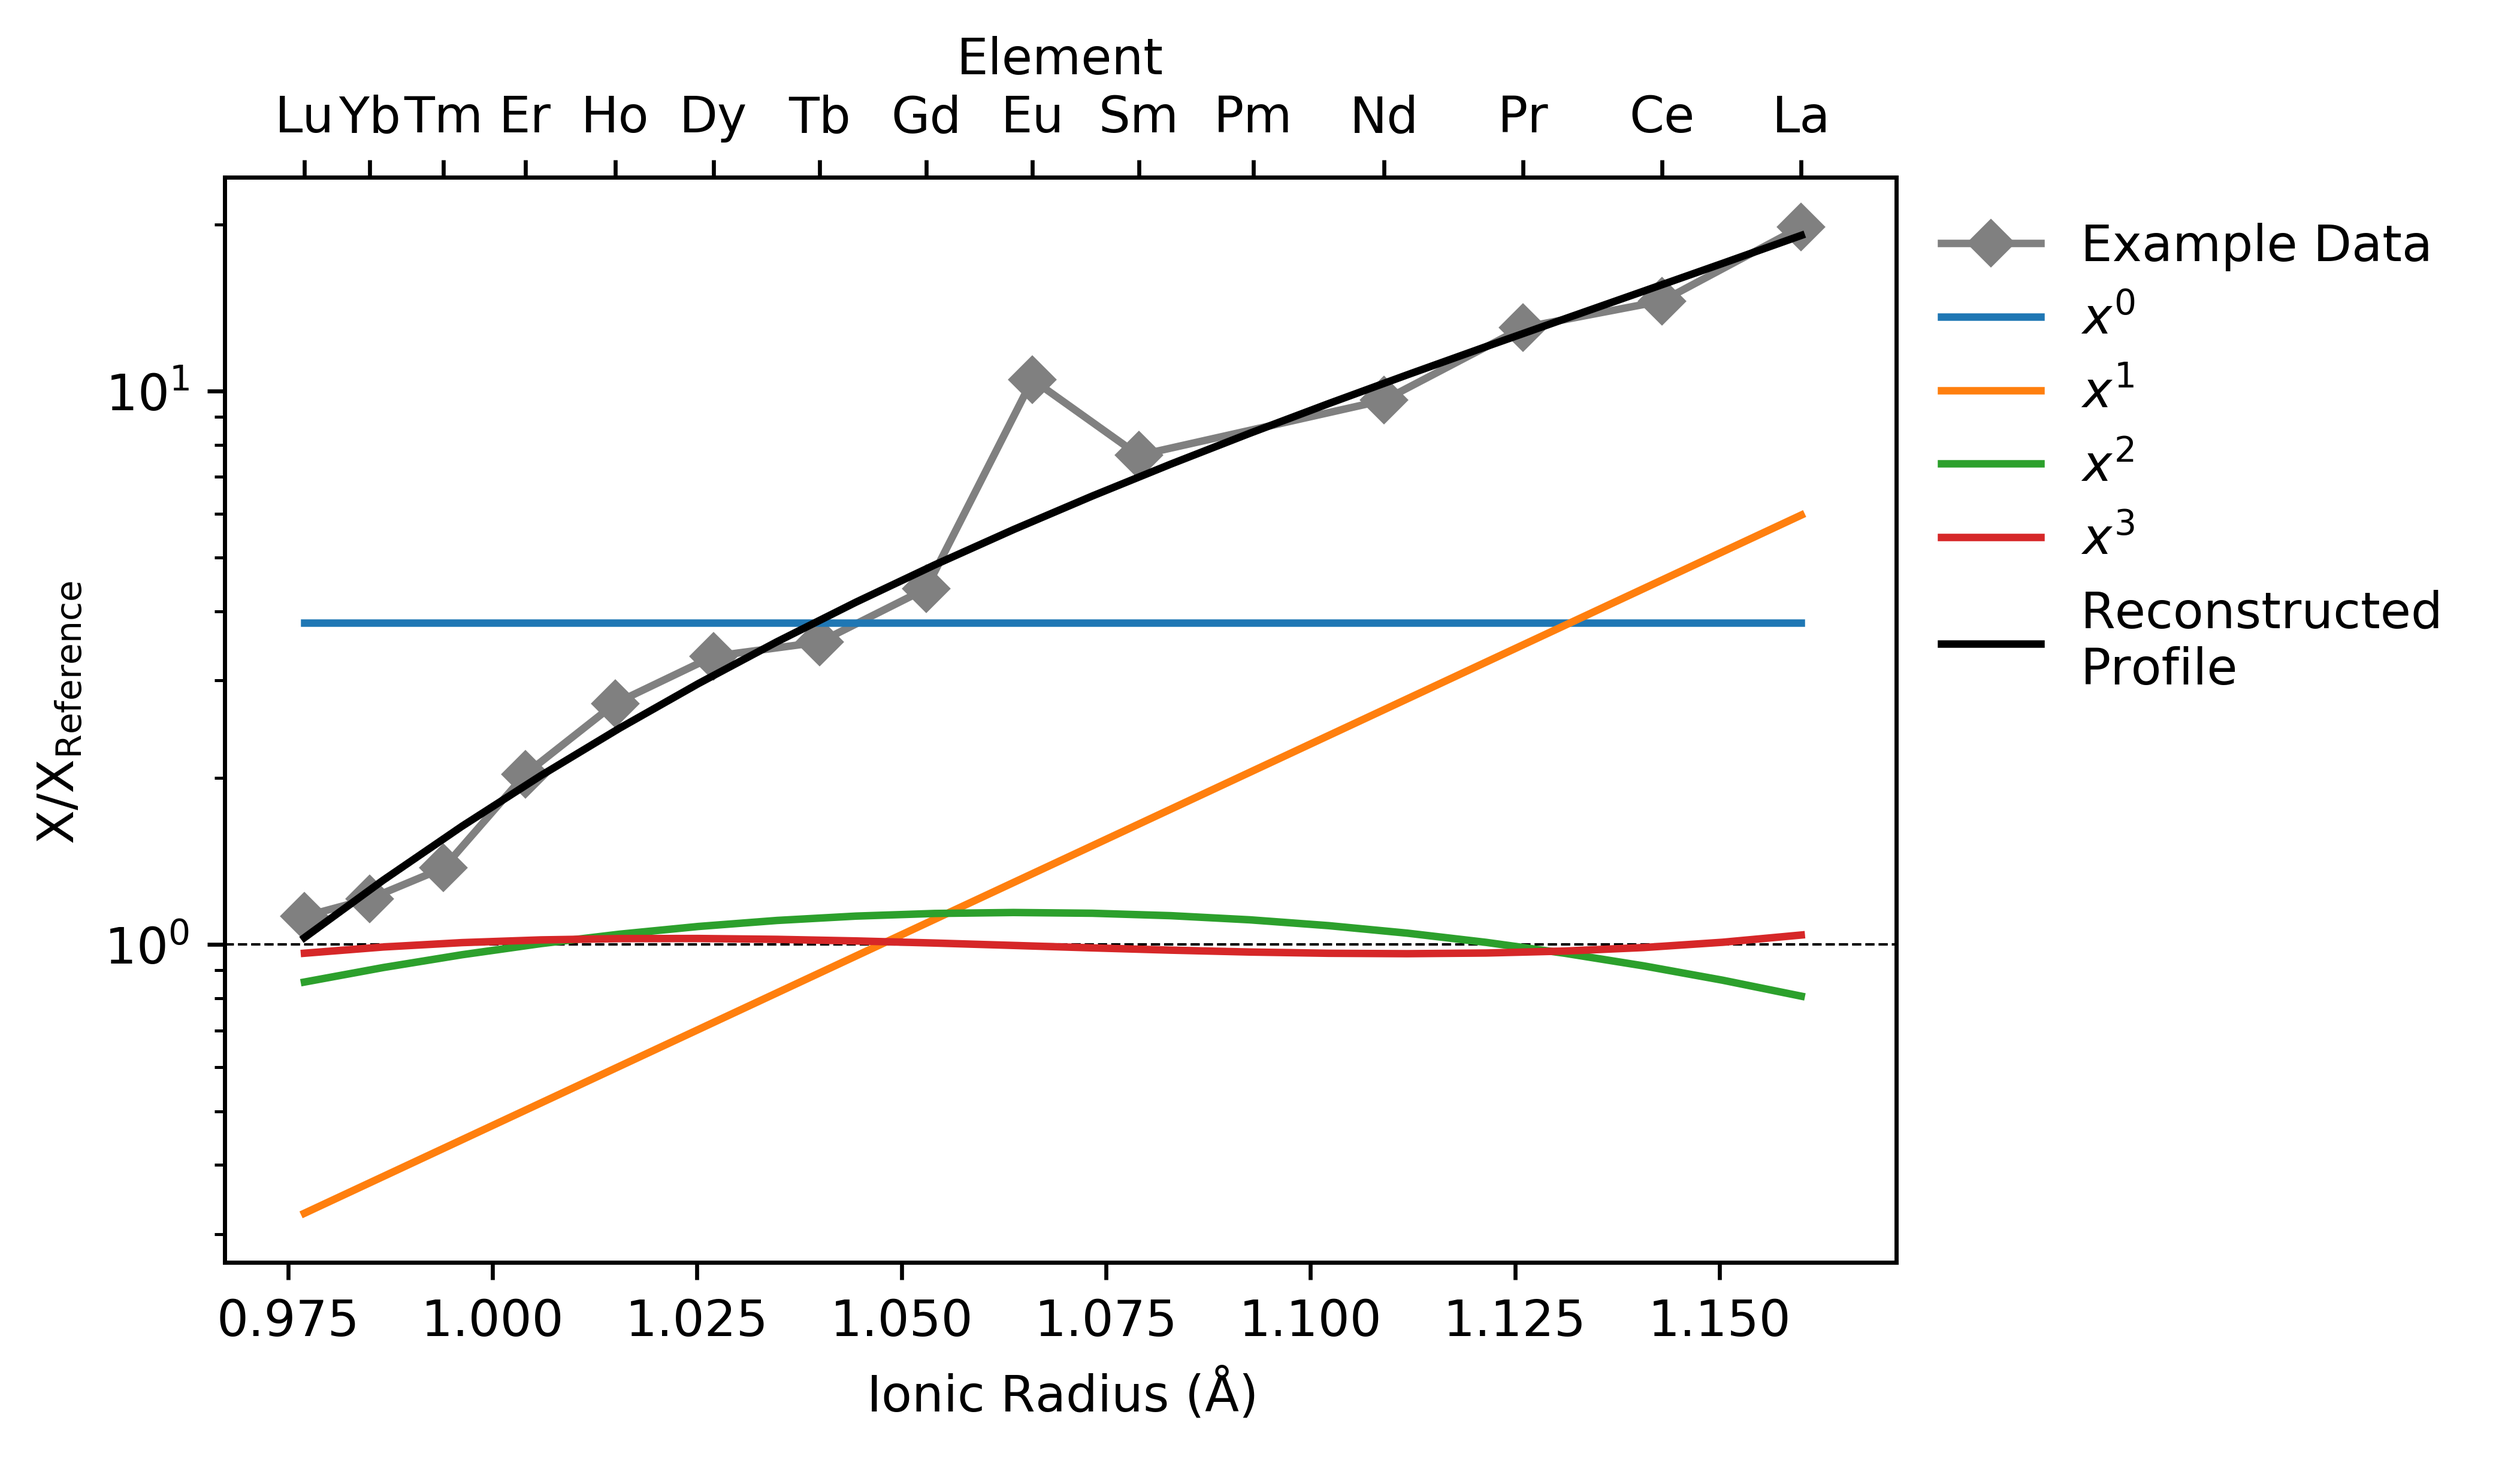
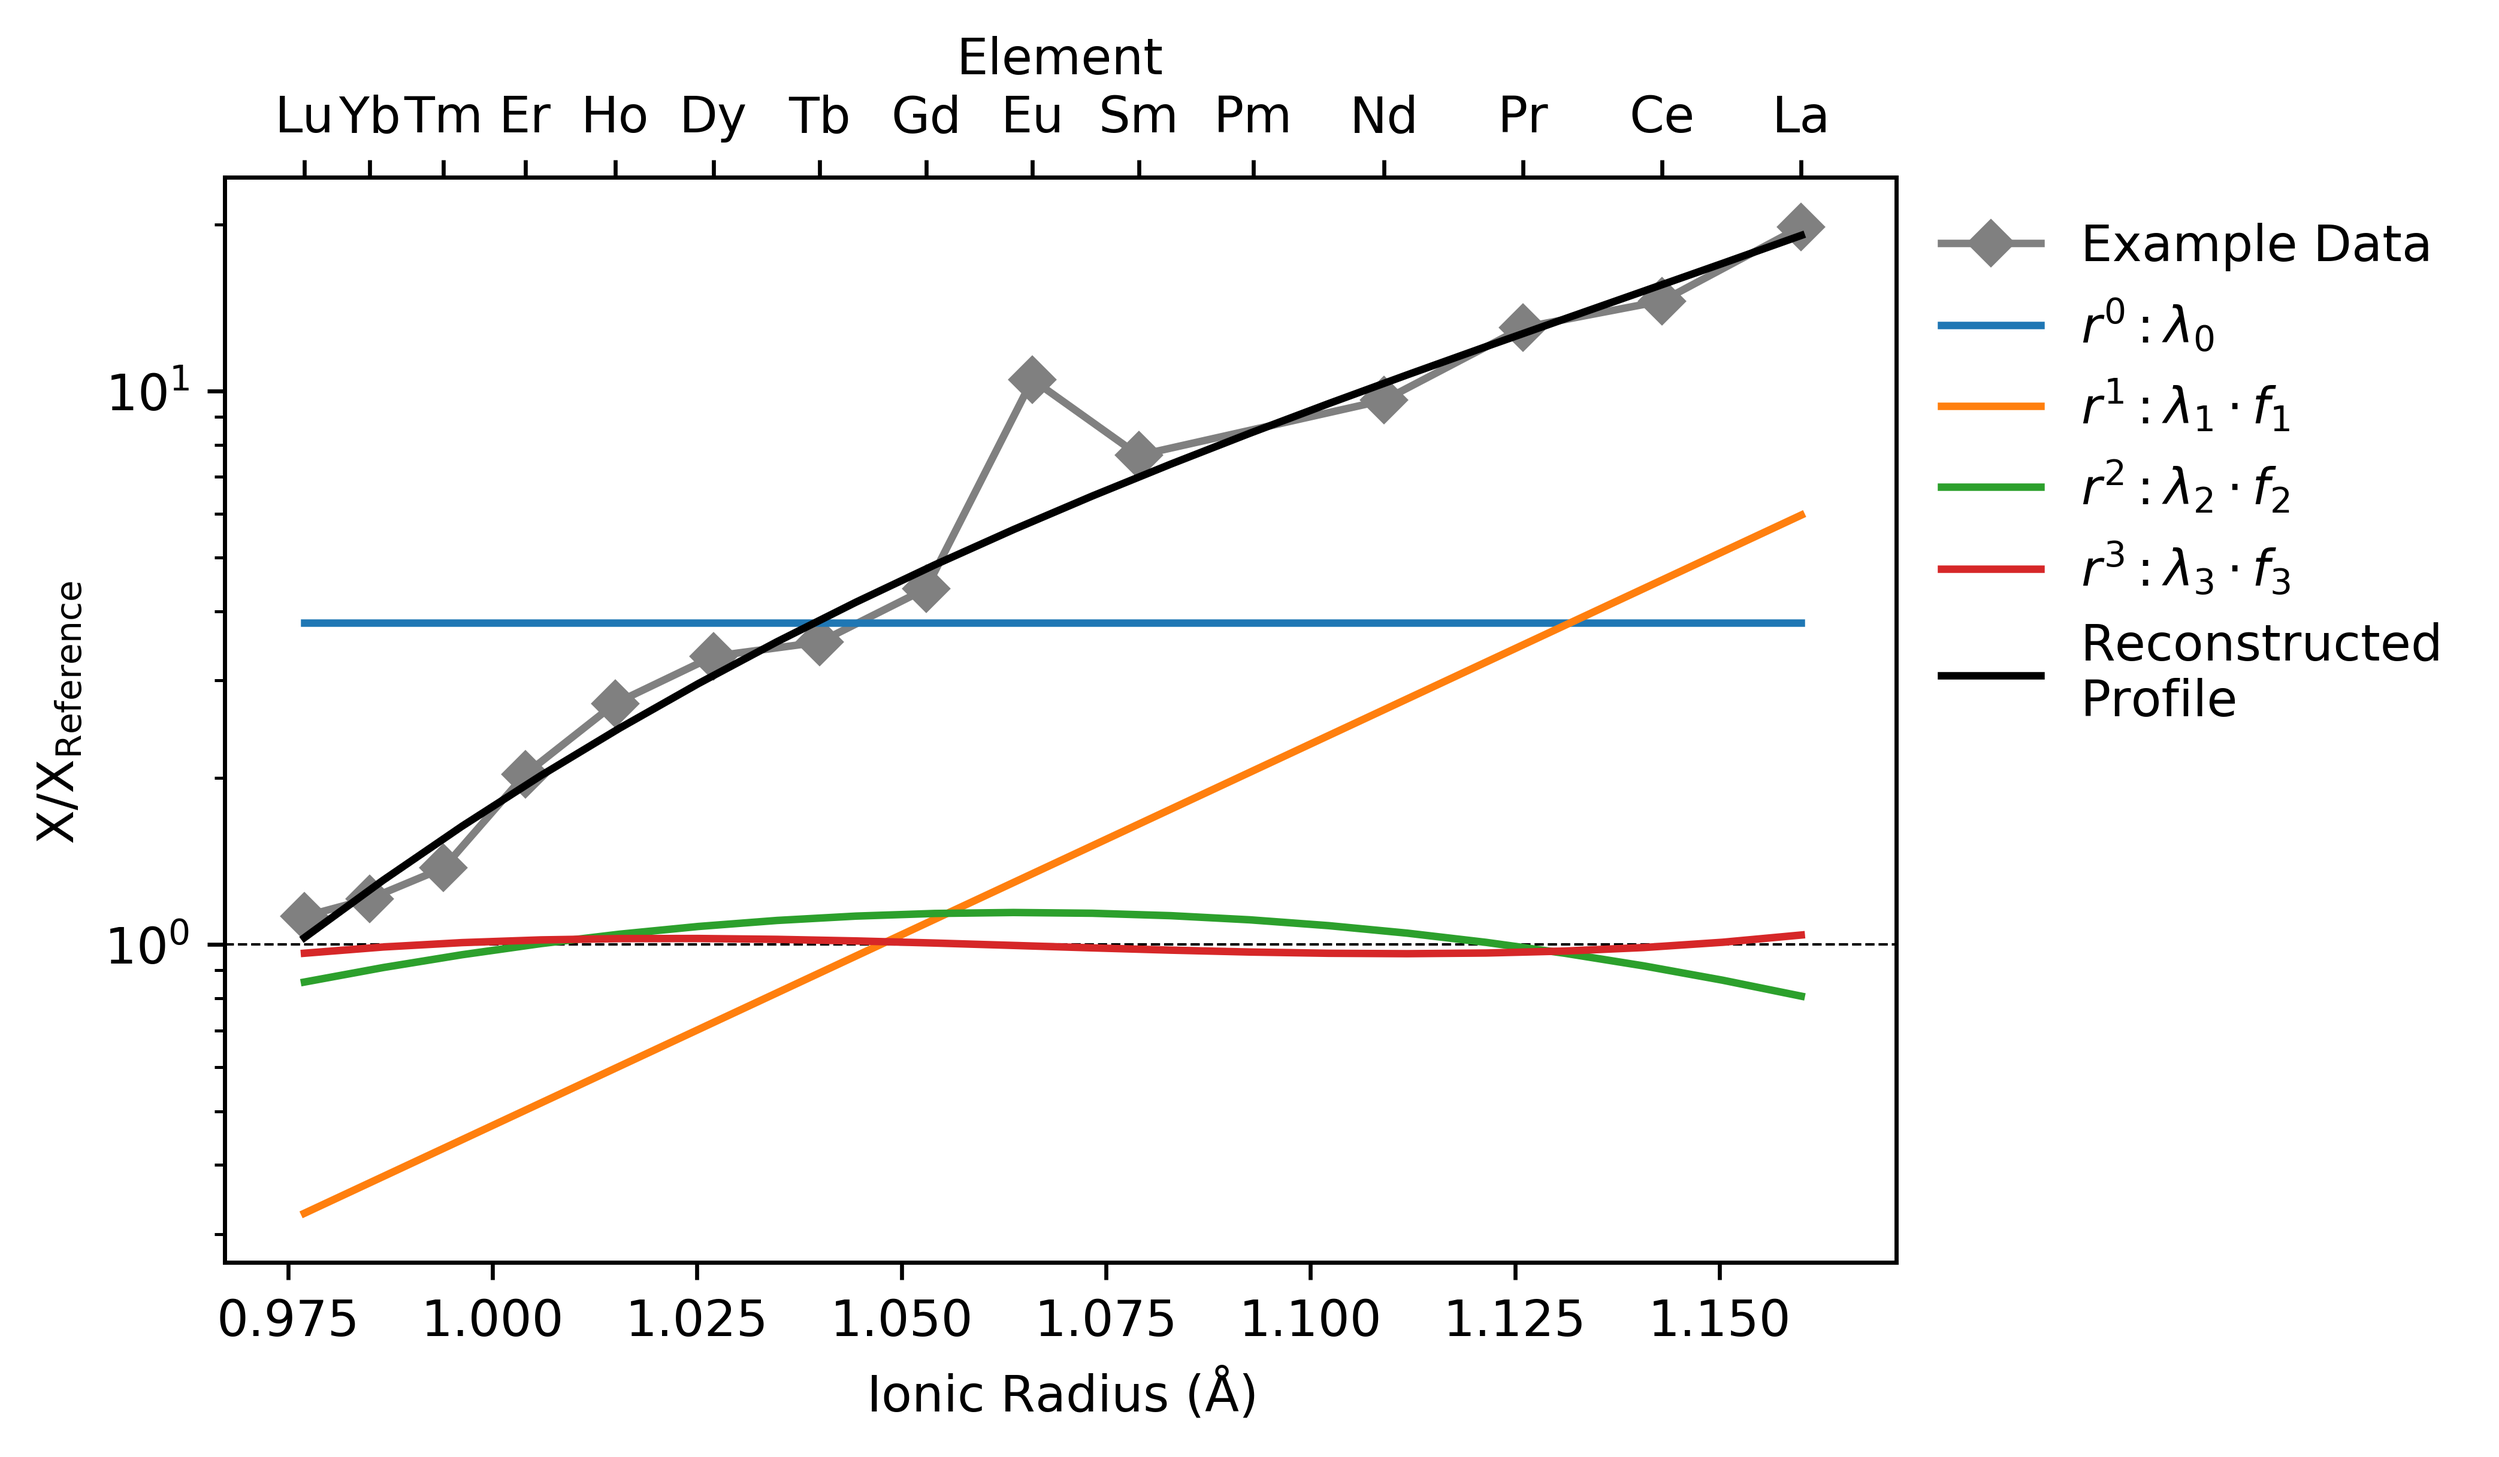
Update Docs - Pandas LnREE example

Changed region(s): [[0.7792, 0.3124, 0.9974, 0.4998], [0.7792, 0.1874, 0.8727, 0.2811], [0.8415, 0.1874, 0.8727, 0.2187]]

diff --git a/docs/examples/pandas_interface/pandas_lnREE.py b/docs/examples/pandas_interface/pandas_lnREE.py
@@ -1,0 +1,62 @@
+import numpy as np
+import pandas as pd
+from pathlib import Path
+import matplotlib.pyplot as plt
+from pyrolite.geochem.ind import REE, get_radii
+from pyrolite.geochem.transform import lambda_lnREE
+from pyrolite.plot import REE_radii_plot
+from pyrolite.util.math import lambdas, lambda_poly_func, OP_constants
+
+np.random.seed(82)
+# %% Generate Some Example Data --------------------------------------------------------
+no_analyses = 1000
+
+data_ree = [i for i in REE() if not i in ["Pm"]]
+data_radii = np.array(get_radii(data_ree))
+data_radii = np.tile(data_radii, (1, no_analyses)).reshape(
+    no_analyses, data_radii.shape[0]
+)
+
+noise = np.random.randn(*data_radii.shape) * 0.1
+constant = -0.1
+lin = np.tile(np.linspace(3.0, 0.0, data_radii.shape[1]), (no_analyses, 1))
+lin = (lin.T * (1.1 + 0.4 * np.random.rand(data_radii.shape[0]))).T
+quad = -1.2 * (data_radii - 1.11) ** 2.0
+
+lnY = noise + constant + lin + quad
+
+for ix, el in enumerate(data_ree):
+    if el in ["Ce", "Eu"]:
+        lnY[:, ix] += np.random.rand(no_analyses) * 0.6
+data_radii
+df = pd.DataFrame(np.exp(lnY), columns=data_ree)
+ax = df.spiderplot(
+    ax=REE_radii_plot(),
+    indexes=get_radii(data_ree),
+    marker="D",
+    alpha=0.01,
+    c="0.5",
+    markerfacecolor="k",
+)
+# %% Plot Data -------------------------------------------------------------------------
+from pyrolite.util.plot import save_figure
+
+save_figure(ax.figure, save_at="../../source/_static", name="PandasLambdaData")
+# %% Reduce to Orthogonal Polynomials --------------------------------------------------
+ls = df.lambda_lnREE(exclude=["Ce", "Eu", "Pm"], degree=4, norm_to='Chondrite_PON')
+# %% Plot the Results ------------------------------------------------------------------
+fig, ax = plt.subplots(1, 3, figsize=(9, 3))
+ax_labels = [chr(955) + "$_{}$".format(str(d)) for d in range(4)]
+columns = [chr(955) + str(d) for d in range(4)]
+
+for ix, a in enumerate(ax):
+    a.scatter(ls[columns[ix]], ls[columns[ix + 1]], alpha=0.1, c="k")
+    a.set_xlabel(ax_labels[ix])
+    a.set_ylabel(ax_labels[ix + 1])
+
+plt.tight_layout()
+fig.suptitle("Lambdas for Dimensional Reduction", y=1.05)
+# %% End -------------------------------------------------------------------------------
+from pyrolite.util.plot import save_figure
+
+save_figure(fig, save_at="../../source/_static", name="PandasLambdas")

diff --git a/docs/examples/dimensional_reduction/orthogonal_polynomials.py b/docs/examples/dimensional_reduction/orthogonal_polynomials.py
@@ -5,6 +5,7 @@ from pyrolite.util.math import lambdas, lambda_poly_func, OP_constants
 
 np.random.seed(82)
 
+
 def plot_orthagonal_polynomial_components(ax, xs, lambdas, params, log=False, **kwargs):
     """Plot polynomials on an axis over x values."""
     for w, p in zip(lambdas, params):  # plot the polynomials
@@ -13,7 +14,15 @@ def plot_orthagonal_polynomial_components(ax, xs, lambdas, params, log=False, **
             f *= xs - np.float(c)
         if log:
             f = np.exp(f)
-        ax.plot(xs, f, label="$x^{}$".format(len(p)), **kwargs)
+
+        label = (
+            "$r^{}: \lambda_{}".format(len(p), len(p))
+            + ["\cdot f_{}".format(len(p)), ""][int(len(p) == 0)]
+            + "$"
+        )
+        ax.plot(xs, f, label=label, **kwargs)
+
+
 # %% Generate Some Example Data --------------------------------------------------------
 data_ree = [i for i in REE() if not i in ["Pm"]]
 data_radii = np.array(get_radii(data_ree))
@@ -43,12 +52,11 @@ l_func = lambda_poly_func(ls, pxs=subset_radii, params=params)
 smooth_profile = np.exp(l_func(continuous_radii))
 # %% Plot the Results ------------------------------------------------------------------
 ax = REE_radii_plot()
-ax.plot(data_radii, Y, marker="D", color='0.5', label="Example Data")
-plot_orthagonal_polynomial_components(
-    ax, continuous_radii, ls, params, log=True,
-)
+ax.plot(data_radii, Y, marker="D", color="0.5", label="Example Data")
+plot_orthagonal_polynomial_components(ax, continuous_radii, ls, params, log=True)
 ax.plot(continuous_radii, smooth_profile, label="Reconstructed\nProfile", c="k")
 ax.legend(frameon=False, facecolor=None, bbox_to_anchor=(1, 1))
 # %% End -------------------------------------------------------------------------------
 from pyrolite.util.plot import save_figure
-save_figure(ax.figure, save_at="../../source/_static", name="OrthagPolyDeconstruction")
+
+save_figure(ax.figure, save_at="../../source/_static", name="OrthogPolyDeconstruction")

diff --git a/docs/examples/plotting/densityplot.py b/docs/examples/plotting/densityplot.py
@@ -56,14 +56,10 @@ ys = stats.norm.rvs(loc=20, scale=3, size=(200, 1)) + 5 * xs + 50
 data = np.append(xs, ys, axis=1).T
 asym_df = pd.DataFrame(np.exp(np.append(xs, ys, axis=1) / 15))
 asym_df.columns = ["A", "B"]
-# ----------------------------------
-fig, ax = plt.subplots(3, 2, figsize=(8, 8))
-ax = ax.flat
 grids = ["linxy", "logxy"] * 2 + ["logx", "logy"]
 scales = ["linscale"] * 2 + ["logscale"] * 2 + ["semilogx", "semilogy"]
 labels = ["{}-{}".format(ls, ps) for (ls, ps) in zip(grids, scales)]
-for a, ls, grid, scale in zip(
-    ax,
+params = list(zip(
     [
         (False, False),
         (True, True),
@@ -74,7 +70,12 @@ for a, ls, grid, scale in zip(
     ],
     grids,
     scales,
-):
+))
+# %% ------------------------------------
+fig, ax = plt.subplots(3, 2, figsize=(8, 8))
+ax = ax.flat
+
+for a, (ls, grid, scale) in zip(ax, params):
     lx, ly = ls
     asym_df.densityplot(ax=a, logx=lx, logy=ly, bins=30, cmap="viridis_r")
     asym_df.densityplot(

diff --git a/docs/source/usage/eg/lambdas/pandaslambdas.rst b/docs/source/usage/eg/lambdas/pandaslambdas.rst
@@ -1,0 +1,46 @@
+Pandas Lambdas from Ln(REE/Reference)
+======================================
+
+.. note:: This page is currently incomplete and a work in progress.
+
+.. literalinclude:: ../../../../examples/pandas_interface/pandas_lnREE.py
+   :language: python
+   :end-before: # %% Generate Some Example Data
+
+First we generate some example REE data, and plot this on a
+:func:`pyrolite.plot.REE_radii_plot`:
+
+.. literalinclude:: ../../../../examples/pandas_interface/pandas_lnREE.py
+  :language: python
+  :start-after: # %% Generate Some Example Data
+  :end-before: # %% Plot Data
+
+.. image:: ../../../_static/PandasLambdaData.png
+  :width: 60%
+  :align: center
+
+The reduction to lambdas using the pandas interface is much simpler than using the
+numpy-based utility functions (see :func:`pyrolite.util.math.lambdas`, `Dimensional Reduction <lambdadimreduction.html>`__):
+
+.. literalinclude:: ../../../../examples/pandas_interface/pandas_lnREE.py
+  :language: python
+  :start-after: # %% Reduce to Orthogonal Polynomials
+  :end-before: # %% Plot the Results
+
+.. literalinclude:: ../../../../examples/pandas_interface/pandas_lnREE.py
+  :language: python
+  :start-after: # %% Plot the Results
+  :end-before: # %% End
+
+.. image:: ../../../_static/PandasLambdas.png
+   :align: center
+
+
+For more on using orthogonal polynomials to describe geochemical pattern data, see:
+O’Neill, H.S.C., 2016. The Smoothness and Shapes of Chondrite-normalized Rare Earth
+Element Patterns in Basalts. J Petrology 57, 1463–1508.
+`doi: 10.1093/petrology/egw047 <https://doi.org/10.1093/petrology/egw047>`__.
+
+.. seealso:: `Visualising Orthogonal Polynomials <lambdavis.html>`__,
+             `Dimensional Reduction <lambdadimreduction.html>`__,
+             `REE Radii Plot <../plotting/REE_radii_plot.html>`__

diff --git a/docs/source/usage/eg/lambdas/lambdadimreduction.rst b/docs/source/usage/eg/lambdas/lambdadimreduction.rst
@@ -15,10 +15,9 @@ summarised by 3-4 shape parameters).
 Here we generate some example data, reduce these to lambda values, and plot the
 resulting dimensionally reduced data.
 
-
 .. literalinclude:: ../../../../examples/dimensional_reduction/lambdas.py
-   :language: python
-   :end-before: # %% Generate Some Example Data
+  :language: python
+  :end-before: # %% Generate Some Example Data
 
 .. literalinclude:: ../../../../examples/dimensional_reduction/lambdas.py
   :language: python
@@ -26,8 +25,8 @@ resulting dimensionally reduced data.
   :end-before: # %% Plot Data
 
 .. image:: ../../../_static/LambdaData.png
-   :width: 60%
-   :align: center
+  :width: 60%
+  :align: center
 
 .. literalinclude:: ../../../../examples/dimensional_reduction/lambdas.py
   :language: python

diff --git a/docs/source/usage/eg/lambdas/lambdavis.rst b/docs/source/usage/eg/lambdas/lambdavis.rst
@@ -7,6 +7,11 @@ Visualising Orthogonal Polynomials
 
 .. literalinclude:: ../../../../examples/dimensional_reduction/orthogonal_polynomials.py
    :language: python
+   :start-after: # %% Generate Some Example Data
+   :end-before: # %% Reduce to Orthogonal Polynomials
+
+.. literalinclude:: ../../../../examples/dimensional_reduction/orthogonal_polynomials.py
+   :language: python
    :start-after: # %% Reduce to Orthogonal Polynomials
    :end-before: # %% Plot the Results
 
